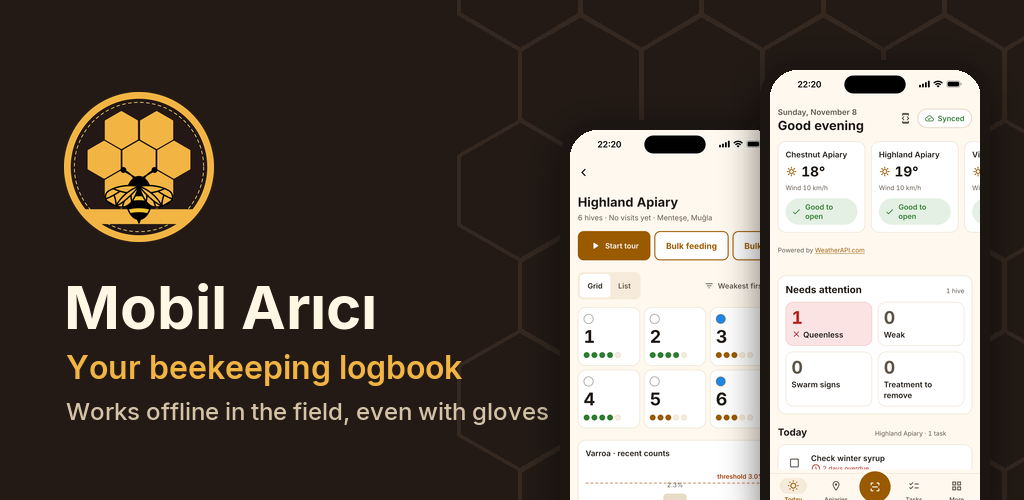
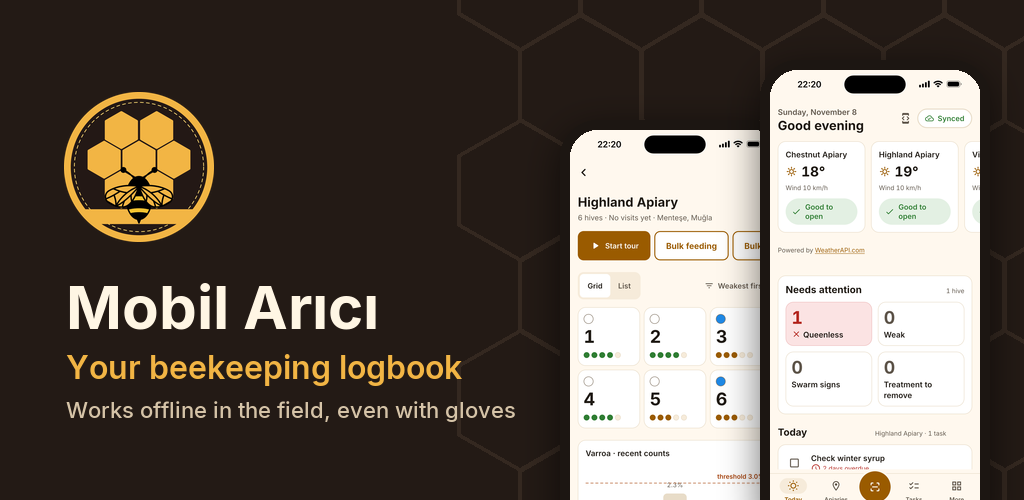
Play mağaza görselleri (Rusça)
- tool/store_demo/ru.sql: yerel demo işletme Rusça, para birimi RUB
- store_screenshots.py: her çekimde yerel demo işletmeyi Türkçe asıldan
  yeniden kurar ve dil çevirisini uygular; diller sırayla çekilebilir
- örnek hava durumu arılıkları adla değil rakımla eşleştirir
- store_frames.py: Rusça başlıklar; feature graphic metni sığmazsa
  küçülür (tr/en'de yalnız 2 px kayma)
- docs/store/play/ru: 8 ekran görüntüsü ve feature graphic

Changed region(s): [[0.0625, 0.57, 0.375, 0.66], [0.0625, 0.78, 0.5312, 0.84]]

diff --git a/integration_test/store_screenshots_test.dart b/integration_test/store_screenshots_test.dart
@@ -118,20 +118,18 @@ class _SampleWeatherService implements WeatherService {
   static double _rain(int day, double rainy, double dry) =>
       day == 4 ? rainy : dry;
 
+  /// Demo arılıklar rakımlarıyla ayrılır; adları dile göre değişir.
   static const _places = {
-    'Yayla Arılığı': ('Menteşe', 'Muğla', 20.0),
-    'Kestane Arılığı': ('Altınordu', 'Ordu', 19.0),
-    'Köy Arılığı': ('Osmangazi', 'Bursa', 19.0),
-    'Highland Apiary': ('Menteşe', 'Muğla', 20.0),
-    'Chestnut Apiary': ('Altınordu', 'Ordu', 19.0),
-    'Village Apiary': ('Osmangazi', 'Bursa', 19.0),
+    820: ('Menteşe', 'Muğla', 20.0),
+    540: ('Altınordu', 'Ordu', 19.0),
+    310: ('Osmangazi', 'Bursa', 19.0),
   };
 
   @override
   Future<WeatherBundle> fetchBundle() async {
     final rows = await Supabase.instance.client
         .from('apiaries')
-        .select('id, name')
+        .select('id, altitude_m')
         .isFilter('deleted_at', null);
     final now = DateTime.now();
     final start = DateTime(now.year, now.month, now.day);
@@ -142,8 +140,8 @@ class _SampleWeatherService implements WeatherService {
       forecasts: [
         for (final row in rows)
           () {
-            final name = row['name'] as String;
-            final (place, region, base) = _places[name] ?? ('', '', 15.0);
+            final altitude = row['altitude_m'] as int?;
+            final (place, region, base) = _places[altitude] ?? ('', '', 15.0);
             final hours = [
               for (var h = 0; h < 7 * 24; h++) start.add(Duration(hours: h)),
             ];

diff --git a/tool/store_frames.py b/tool/store_frames.py
@@ -64,6 +64,24 @@ CAPTIONS = {
         "team": ("Work together as a team",
                  "Partners, workers and advisors, each by role"),
     },
+    "ru": {
+        "today": ("Весь день с одного взгляда",
+                  "Погода, ульи, требующие внимания, и задачи"),
+        "apiary": ("Все ульи перед глазами",
+                   "Сила, матка и варроа для каждого улья"),
+        "inspect": ("Осмотр в пару касаний, в перчатках",
+                    "Крупные кнопки и данные прошлого осмотра"),
+        "hive": ("История каждого улья в кармане",
+                 "Матки, варроа и обработки"),
+        "weather": ("Можно ли сегодня открывать ульи?",
+                    "Погода на 7 дней для каждой пасеки"),
+        "map": ("Работает без интернета на точке",
+                "Пасеки на карте, записи в телефоне"),
+        "finance": ("Какая пасека приносит доход?",
+                    "Доходы, расходы и прибыль по пасекам"),
+        "team": ("Работайте командой",
+                 "Партнёры, работники и консультанты"),
+    },
 }
 
 FEATURE = {
@@ -71,11 +89,23 @@ FEATURE = {
            "Dağda internetsiz, eldivenle bile"),
     "en": ("Mobil Arıcı", "Your beekeeping logbook",
            "Works offline in the field, even with gloves"),
+    "ru": ("Mobil Arıcı", "Пасечный журнал в кармане",
+           "Без интернета на точке, даже в перчатках"),
 }
 
 
 def font(weight, size):
     return ImageFont.truetype(os.path.join(FONTS, f"Inter-{weight}.ttf"), size)
+
+
+def fit(draw, text, weight, size, width):
+    """Tek satırda [width]'e sığan en büyük yazı (en çok [size])."""
+    while size > 12:
+        fnt = font(weight, size)
+        if draw.textlength(text, font=fnt) <= width:
+            return fnt
+        size -= 1
+    return font(weight, size)
 
 
 def wrap(draw, text, fnt, width):
@@ -174,9 +204,15 @@ def feature_graphic(shots, name, tagline, line):
 
     logo = Image.open(LOGO).convert("RGBA").resize((150, 150), Image.LANCZOS)
     canvas.alpha_composite(logo, (64, 92))
-    draw.text((64, 270), name, font=font("Bold", 60), fill=CREAM)
-    draw.text((66, 348), tagline, font=font("SemiBold", 32), fill=HONEY)
-    draw.text((66, 396), line, font=font("Medium", 24), fill=(214, 196, 168))
+    # Metin sağdaki telefonlara girmesin: sığmazsa küçülür.
+    max_width = 470
+    for text, weight, size, y, color in (
+        (name, "Bold", 60, 270, CREAM),
+        (tagline, "SemiBold", 32, 348, HONEY),
+        (line, "Medium", 24, 396, (214, 196, 168)),
+    ):
+        fnt = fit(draw, text, weight, size, max_width)
+        draw.text((66, y), text, font=fnt, fill=color)
 
     # İki telefon sağda, alttan taşarak.
     for i, (shot, x, y) in enumerate(((shots[1], 560, 120), (shots[0], 760, 60))):

diff --git a/tool/store_screenshots.py b/tool/store_screenshots.py
@@ -6,8 +6,9 @@ Supabase'deki demo hesapla çalıştırır; test `SHOT:<ad>` bastıkça
 simülatörden durum çubuğu dahil görüntü alır.
 
 Önce: `supabase start`, yerelde `demo@tutunsoft.com` kullanıcısı (parola
---password) ve `supabase/admin/demo_account.sql` yüklü. Türkçe dışındaki
-diller için ardından `tool/store_demo/<dil>.sql` (yalnız yerel DB).
+--password). Betik her çekimde yerel demo işletmeyi `supabase/admin/
+demo_account.sql` ile yeniden kurar; Türkçe dışında `tool/store_demo/
+<dil>.sql` çevirisini uygular (yalnız yerel DB).
 
     python3 tool/store_screenshots.py --password 123456 --out /tmp/raw --lang tr
 """
@@ -17,6 +18,8 @@ import os
 import subprocess
 import sys
 import time
+
+ROOT = os.path.dirname(os.path.dirname(os.path.abspath(__file__)))
 
 DEVICE = "iPhone 15 Pro Max"
 BUNDLE = "com.tutunsoft.mobilarici.dev"
@@ -36,13 +39,33 @@ def device_id(name):
     sys.exit(f"Simülatör yok: {name}")
 
 
+DOCKER_ENV = dict(os.environ, DOCKER_HOST=f"unix://{os.environ['HOME']}/.colima/default/docker.sock")
+DEMO_ORG = "01900000-0000-7000-8000-00000000de00"
+
+
+def psql_file(path):
+    with open(path) as f:
+        subprocess.run(
+            ["docker", "exec", "-i", "supabase_db_mobil_arici", "psql", "-U", "postgres",
+             "-v", "ON_ERROR_STOP=1", "-q"],
+            stdin=f, check=True, env=DOCKER_ENV, capture_output=True)
+
+
+def reset_demo(lang):
+    """Yerel demo işletmeyi Türkçe asıldan yeniden kurar, dil çevirisini uygular."""
+    sh("docker", "exec", "supabase_db_mobil_arici", "psql", "-U", "postgres", "-q", "-c",
+       f"delete from public.organizations where id = '{DEMO_ORG}'", env=DOCKER_ENV)
+    psql_file(os.path.join(ROOT, "supabase", "admin", "demo_account.sql"))
+    if lang != "tr":
+        psql_file(os.path.join(ROOT, "tool", "store_demo", f"{lang}.sql"))
+
+
 def demo_ids():
-    env = dict(os.environ, DOCKER_HOST=f"unix://{os.environ['HOME']}/.colima/default/docker.sock")
     sql = (
         "select h.apiary_id, h.id from hives h "
         f"where h.number = '{HIVE_NUMBER}' and h.deleted_at is null"
     )
-    out = sh("docker", "exec", "supabase_db_mobil_arici", "psql", "-U", "postgres", "-At", "-c", sql, env=env)
+    out = sh("docker", "exec", "supabase_db_mobil_arici", "psql", "-U", "postgres", "-At", "-c", sql, env=DOCKER_ENV)
     apiary, hive = out.strip().split("|")
     return apiary, hive
 
@@ -68,6 +91,7 @@ def main():
        "--cellularMode", "active", "--cellularBars", "4",
        "--batteryState", "charged", "--batteryLevel", "100")
 
+    reset_demo(args.lang)
     apiary, hive = demo_ids()
     cmd = [
         "flutter", "test", "integration_test/store_screenshots_test.dart",
